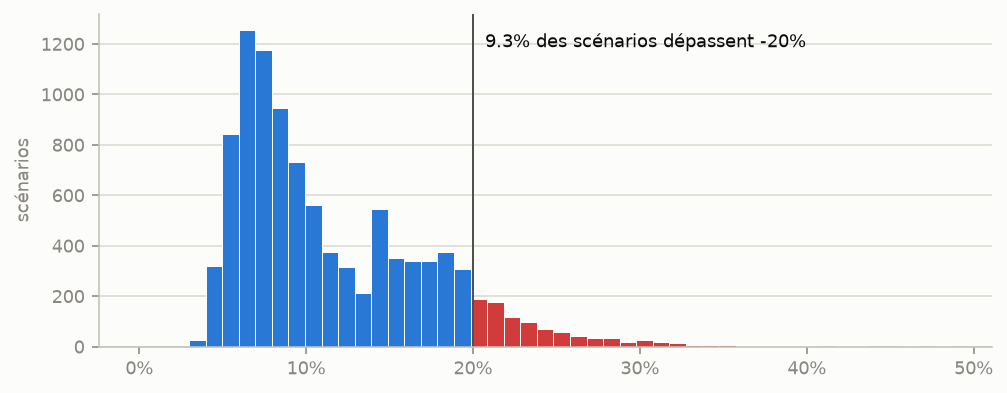
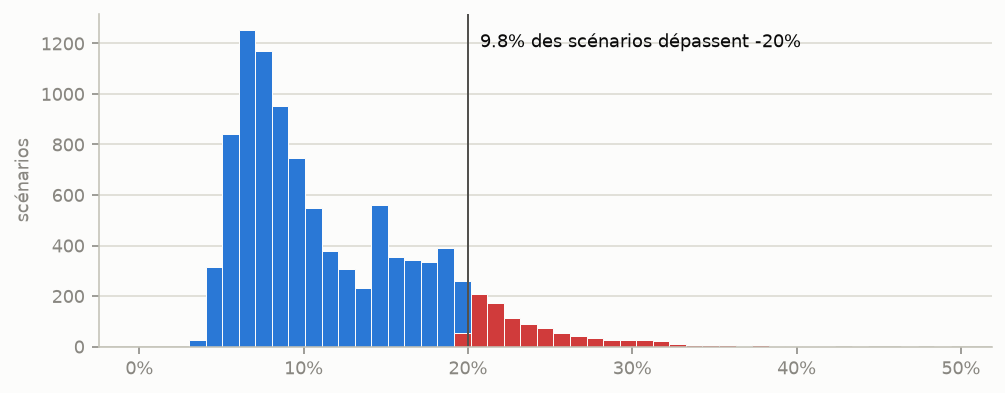
docs: update README figures and method after review fixes

diff --git a/README.md b/README.md
@@ -18,7 +18,7 @@ conda activate portfolio-copilot
 python scripts/run_screening.py       # propose une short-list (output/screening.xlsx)
 python scripts/run_screening.py --valider   # après relecture humaine
 python main.py                        # optimise et produit output/rapport.html + allocation.xlsx
-pytest                                # 92 tests
+pytest                                # 102 tests
 ```
 
 `main.py` est découpé en cellules `# %%` pour être exécuté bloc par bloc dans VS Code.
@@ -50,14 +50,14 @@ config/universe.csv ─► 271 titres (Euro Stoxx 50, FTSE 100, SMI, S&P 100)
 
 ### Exemple de résultat (octobre 2026, short-list proposée non validée)
 
-L'allocation retenue place **46 % en actions** (21 lignes) et **54 % en fonds monétaire EUR**.
+L'allocation retenue place **47 % en actions** (20 lignes) et **53 % en fonds monétaire EUR**.
 
 | Contrôle | Résultat | Limite |
 |---|---|---|
-| Stress test crise 2008 | -13,2 % | -20 % |
-| Stress test Covid mars 2020 | -18,5 % | -20 % |
-| Stress test inflation 2022 | -5,6 % | -20 % |
-| P(baisse > 20 %) sur 5 ans, Monte Carlo | 9,3 % | 10 % |
+| Stress test crise 2008 | -16,0 % | -20 % |
+| Stress test Covid mars 2020 | -18,7 % | -20 % |
+| Stress test inflation 2022 | -5,8 % | -20 % |
+| P(baisse > 20 %) sur 5 ans, Monte Carlo | 9,8 % | 10 % |
 
 Pour comparaison, la même sélection investie à 100 % en actions, en poids égaux, perdait 51 % en 2008 et 42 % en 2020.
 
@@ -118,14 +118,14 @@ La composition de quatre indices publics est lue sur Wikipedia (`scripts/build_u
 | **CVaR (Expected Shortfall)** | perte moyenne au-delà de la VaR. La VaR dit où commence la queue de distribution, la CVaR dit à quel point elle est profonde. |
 | VaR gaussienne | sert de comparaison : sur les données réelles, la VaR 99 % historique la dépasse, signe de queues épaisses |
 | Max drawdown | la mesure de la politique, calculée depuis le plus haut (capital initial compris) |
-| Stress tests | portefeuille actuel rejoué sur 2008, mars 2020 et 2022, avec la part du portefeuille couverte |
+| Stress tests | portefeuille actuel rejoué sur 2008, mars 2020 et 2022. Une action absente à l'époque est remplacée par les actions présentes de sa poche (jamais par le monétaire), et la part couverte est indiquée |
 | **Monte Carlo par bootstrap par blocs** | 10 000 trajectoires de 5 ans, construites avec des blocs d'un mois tirés de l'historique. Garde les krachs réels et la volatilité en grappes, contrairement à une loi normale. |
 | Contribution au risque | part de la variance due à chaque ligne : une ligne à 5 % du capital peut porter 8 % du risque |
 | Concentration | poids par secteur, pays et devise, nombre de lignes effectives (1/Σw²) |
 
 ### 5. Optimisation ([`src/optimizer.py`](src/optimizer.py))
 - **Poids des actions** : variance minimale sous toutes les contraintes de la politique. On n'utilise pas le ratio de Sharpe maximal : il exige des rendements attendus, très mal estimés à partir du passé, et l'optimiseur surpondérerait ce qui a le plus monté.
-- **Covariance Ledoit-Wolf** : avec ~20 titres, la covariance brute contient du bruit que l'optimiseur exploite. Le shrinkage stabilise les poids. Une régularisation L2 évite de tout concentrer sur 3 lignes.
+- **Covariance Ledoit-Wolf sur rendements hebdomadaires** : avec ~20 titres, la covariance brute contient du bruit que l'optimiseur exploite. Le shrinkage stabilise les poids. Les rendements sont hebdomadaires parce que Paris et New York ne ferment pas à la même heure : en journalier, la corrélation Europe/US paraît plus faible (0,20 contre 0,26), et l'optimiseur croirait à une diversification qui n'existe pas. Une régularisation L2 évite de tout concentrer sur 3 lignes.
 - **Part d'actions** : recherche par dichotomie de la plus grande part qui passe tous les contrôles. Le reste va au fonds monétaire. Si aucune part ne passe, le résultat est rendu « non conforme » : l'outil ne contourne pas une règle.
 
 ### 6. Contrôles et rapport ([`src/policy_check.py`](src/policy_check.py), [`src/report.py`](src/report.py))
@@ -139,9 +139,9 @@ Le texte est produit en deux temps. Le code extrait les chiffres et les constats
 ## Hypothèses et limites
 
 - **Le passé ne garantit rien.** Une crise d'une autre nature (taux, géopolitique, liquidité) peut faire pire que 2008, 2020 et 2022.
-- **Historique du Monte Carlo** : il commence à la cotation du titre le plus récent, en 2015 dans l'exemple, et ne contient alors pas 2008. Le stress test 2008 compense en partie, et le rapport le signale.
+- **Historique du Monte Carlo** : il commence à la cotation du titre le plus récent, en 2015 dans l'exemple, et ne contient alors pas 2008. Le rapport le signale et le stress test 2008 couvre ce cas. Vérifié pendant la review : avec un historique depuis 2007 (actions absentes remplacées dans leur poche), la probabilité estimée était légèrement plus basse (8,4 % contre 9,3 %), les années de rebond compensant le krach. Ce n'est donc pas une sous-estimation dans cet exemple, mais ça peut l'être avec une autre short-list.
 - **Rendement moyen** : la probabilité de drawdown y est très sensible, alors que c'est le paramètre le moins bien estimé. Pendant la mise au point des tests, un écart de 0,01 %/jour sur ce rendement a fait passer la probabilité estimée de 29 % à 45 %.
-- **Stress tests** : un titre non coté à l'époque est retiré et les autres poids sont remis à 100 %. La couverture est indiquée (87 % pour 2008 dans l'exemple).
+- **Stress tests** : un titre non coté à l'époque est remplacé par les autres actions de sa poche. La couverture est indiquée (86 % pour 2008 dans l'exemple).
 - **Fonds monétaire avant 2008** : il n'est coté que depuis janvier 2008. Avant, son rendement est supposé nul, ce qui est prudent.
 - **Rebalancement** : le portefeuille est supposé rebalancé chaque jour à poids constants, sans frais, impôts ni coûts de transaction.
 - **Données** : Yahoo Finance via yfinance, source non officielle qui peut changer sans préavis. Le payout ratio vient de Yahoo. L'univers dépend de la composition des indices telle que publiée sur Wikipedia.
@@ -152,7 +152,7 @@ Le texte est produit en deux temps. Le code extrait les chiffres et les constats
 
 ## Tests
 
-92 tests, sans réseau : yfinance est remplacé par des données simulées. Chaque mesure de risque est d'abord testée sur une série dont on connaît le résultat exact, par exemple :
+102 tests, sans réseau : yfinance est remplacé par des données simulées. Chaque mesure de risque est d'abord testée sur une série dont on connaît le résultat exact, par exemple :
 - 100 → 120 → 60 → 130 donne un max drawdown de 50 % ;
 - deux actifs indépendants à 50/50 ont une volatilité divisée par √2 ;
 - le bootstrap à blocs d'un jour est comparé à une simulation indépendante.
